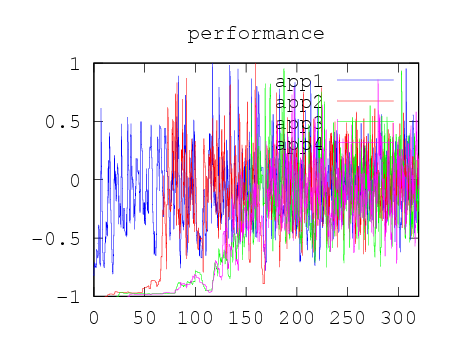
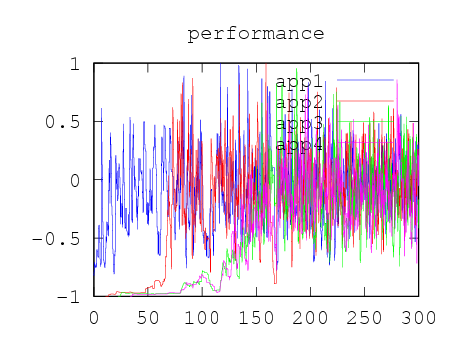
fix last comments

diff --git a/report/thesis.tex b/report/thesis.tex
@@ -819,6 +819,7 @@ typedef union epoll_data {
 
 
 
+
 <<<<<<< Updated upstream
 
 =======
@@ -2271,7 +2272,7 @@ ones. However, the weights of the applications are set to zero. With all
 weights set to zero the virtual platforms are not expected to change.
 The result is shown in Figure~\ref{fig:test3}.
 
-\martina{Include in the figure for the virtual platform 0.2 in the
+\fixed{Include in the figure for the virtual platform 0.2 in the
   axis, to make sure that you actually see the signals. Are they
   really at 0.25 or it is simply assumed? Another comment that you can
   make here is the role of $\epsilon$. Do you see that the applications 3
@@ -2509,7 +2510,7 @@ depicts the result of the run.
 \label{fig:test6}
 \end{figure}
 
-\martina{When you comment it, say that the service level shown in the
+\fixed{When you comment it, say that the service level shown in the
   figure has no sense for application 1 and 3, since they don't adapt
   the computation that they do but it is simply a value. Alternatively,
   exclude them from the picture. This second alternative will also show
@@ -2649,6 +2650,7 @@ Represents an application being managed and consists of the following fields.
 \item performance: Performance, or matching function of the application.
 \item weight: The current "weight" of the application.
 \item happy: Indicates if the application is happy with its 
+
       current performance. This field was added to prevent application from sending their performance even when they are satisfied and nothing should be needed from the resource manager, eliminating unnecessary computations.
 \item sa: Socket Address, used to send back the performance multiplier.
 \end{itemize}

diff --git a/report/tools/plot/plot_script.m b/report/tools/plot/plot_script.m
@@ -38,6 +38,10 @@ end
  
 
 
+counter=1;
+
+
+
 for i =1:NO_OF_PLOTS
 	
 	if (size(T2)==0)
@@ -100,11 +104,16 @@ for i =1:NO_OF_PLOTS
 	S(:,1)=S(:,1)/10^9;%convert to seconds
 	
 
+
+
+
 	figure(sl_handle)	
 	hold on
+	if(i!=1&&i!=3)
 	plot(S(:,1),S(:,3),my_colors(i))
+	endif
 	title('service level')	
-	legend(my_legend)
+	%legend(my_legend)
 	axis("tight");
 	hold off		
 end

diff --git a/report/tools/plot/printscript.m b/report/tools/plot/printscript.m
@@ -3,7 +3,7 @@
 
 
 
-cd logs/test5b
+cd logs/test6
 
 
 h=v_handle
